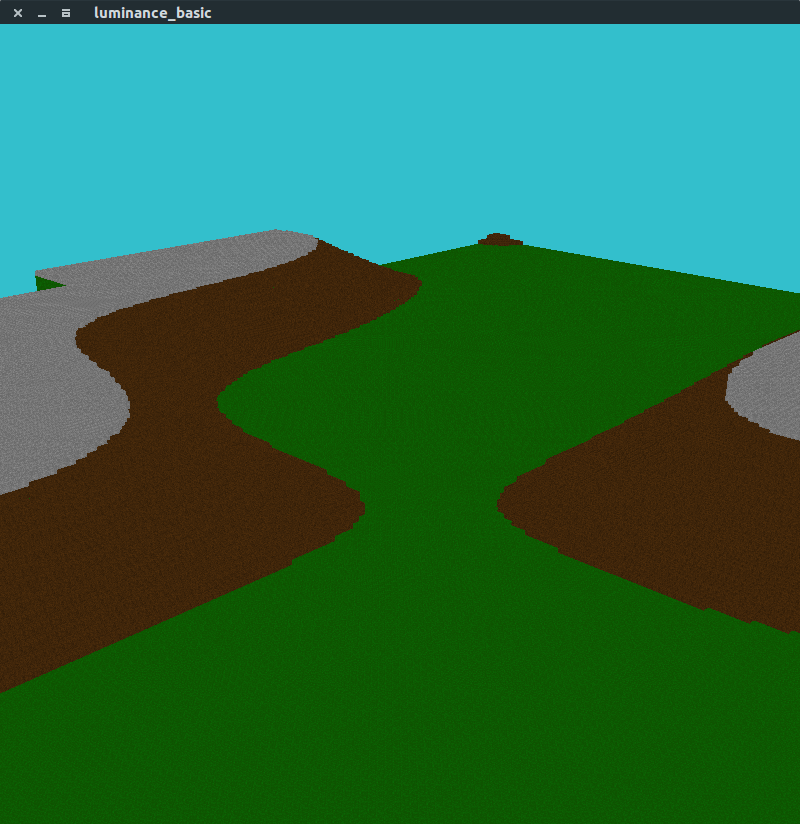
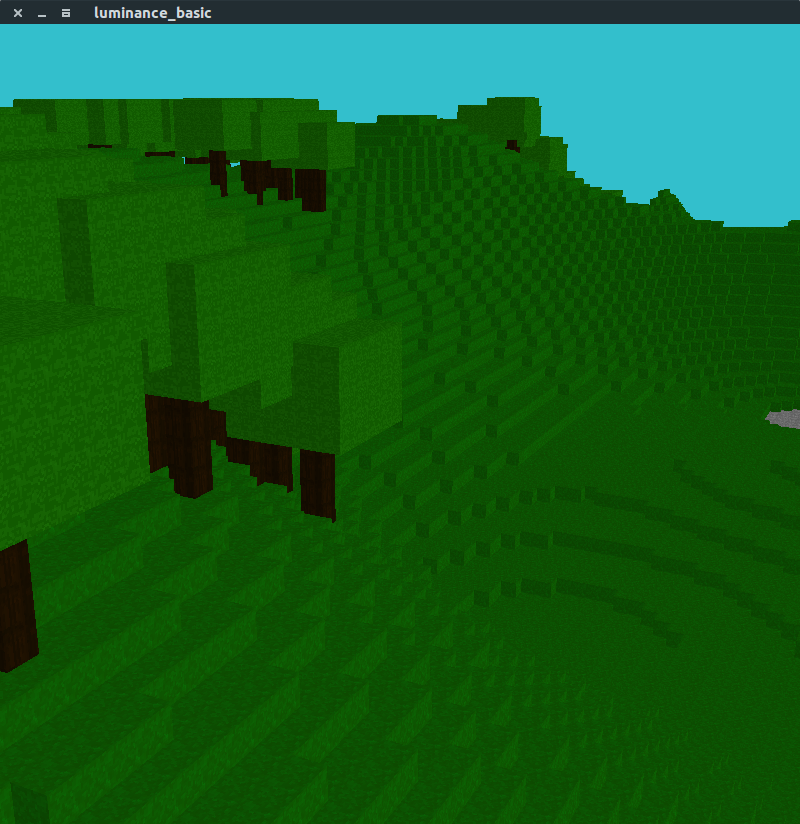
Vast improvements to world appearance * New facenum vertex attribute, allows   per-face lighting implemented in the   shaders. * More variable terrain. * Added trees. * Updated README.md

diff --git a/src/terrain/world_gen.rs b/src/terrain/world_gen.rs
@@ -4,10 +4,15 @@ use noise::{BasicMulti, MultiFractal, NoiseModule};
 use super::SECTOR_SIZE;
 use super::voxel::{Block, BlockList, SectorSpaceCoords};
 
+const SECTOR_SIZE_F: f32 = SECTOR_SIZE as f32;
+
 /// The world generator.
 pub struct WorldGen {
     //perlin: Perlin,
-    noisemod: BasicMulti<f32>,
+    base_terrain: BasicMulti<f32>,
+    compression: BasicMulti<f32>,
+    general_height: BasicMulti<f32>,
+    tree: (BasicMulti<f32>, BasicMulti<f32>),
 }
 
 impl WorldGen {
@@ -15,7 +20,11 @@ impl WorldGen {
     pub fn new() -> WorldGen {
         WorldGen {
             //perlin: Perlin::new(),
-            noisemod: BasicMulti::new().set_persistence(0.1),
+            base_terrain: BasicMulti::new().set_persistence(0.1),
+            compression: BasicMulti::new().set_persistence(0.05),
+            general_height: BasicMulti::new().set_octaves(4).set_frequency(0.5),
+            tree: (BasicMulti::new().set_frequency(0.01),
+                   BasicMulti::new().set_frequency(1.0)),
         }
     }
     
@@ -92,19 +101,65 @@ impl WorldGen {
             
             for x in 0..SECTOR_SIZE {
                 for z in 0..SECTOR_SIZE {
-                    let height = self.noisemod.get(
-                        [(x as f32 + SECTOR_SIZE as f32 * sector.0 as f32) * 0.007,
-                         (z as f32 + SECTOR_SIZE as f32 * sector.2 as f32) * 0.007]);
+                    let (fx, fz) = (x as f32, z as f32);
+                    let (s0, s2) = (sector.0 as f32, sector.2 as f32);
                     
-                    let middle = (SECTOR_SIZE / 2) as f32;
+                    let comp = (self.compression.get(
+                        [(fx + SECTOR_SIZE_F * s0) * 0.005,
+                         (fz + SECTOR_SIZE_F * s2) * 0.005]) + 1.0).min(1.0);
                     
-                    let highest = (middle + height * 40.).max(0.).min(SECTOR_SIZE as f32) as usize;
+                    //println!("{}", comp);
+                    
+                    let general_h = (self.general_height.get(
+                        [(fx + SECTOR_SIZE_F * s0) * 0.0009,
+                         (fz + SECTOR_SIZE_F * s2) * 0.0009]) + 1.5).min(1.0);
+                    
+                    let height = self.base_terrain.get(
+                        [(fx + SECTOR_SIZE_F * s0) * 0.007 * comp,
+                         (fz + SECTOR_SIZE_F * s2) * 0.007 * comp]) * general_h;
+                    
+                    let middle = SECTOR_SIZE_F / 2.;
+                    
+                    let highest = (middle + height * 40.).max(0.).min(SECTOR_SIZE_F) as usize;
                     
                     //println!("highest: {}", highest);
                     
                     for y in 0..highest {
                         list.set(SectorSpaceCoords::new(x as u8, y as u8, z as u8),
                                  Block::Grass);
+                    }
+                    
+                    // Trees
+                    if x >= 3 && x <= SECTOR_SIZE - 3 && z >= 3 && z <= SECTOR_SIZE - 3 && highest < SECTOR_SIZE - 8 {
+                        let tree_chance = self.tree.0.get(
+                            [fx + SECTOR_SIZE_F * s0 * 1.1,
+                             fz + SECTOR_SIZE_F * s2 * 1.1]);
+                        
+                        if tree_chance > 0.2 {
+                            let tree_chance2 = self.tree.1.get(
+                                [fx / 2. + SECTOR_SIZE_F * s0 * 1.1,
+                                 fz / 2. + SECTOR_SIZE_F * s2 * 1.1]);
+                            
+                            //println!("{}", tree_chance2);
+                            
+                            if tree_chance2 > 0.25 {
+                                //list.set(SectorSpaceCoords::new(x as u8, highest.min(SECTOR_SIZE - 1) as u8, z as u8),
+                                //         Block::Loam);
+                                
+                                for h in 0..8 {
+                                    list.set(SectorSpaceCoords::new(x as u8, (h + highest) as u8, z as u8),
+                                             Block::Tree);
+                                    for dx in -2i32..3 {
+                                        for dy in 4i32..8 {
+                                            for dz in -2i32..3 {
+                                                list.set(SectorSpaceCoords::new((x as i32 + dx) as u8, (highest as i32 + dy) as u8, (z as i32  + dz) as u8),
+                                                         Block::Leaves);
+                                            }
+                                        }
+                                    }
+                                }
+                            }
+                        }
                     }
                 }
             }

diff --git a/src/terrain/mesh_gen.rs b/src/terrain/mesh_gen.rs
@@ -217,22 +217,22 @@ fn generate_face(v: &mut Vec<Vertex>, block: (SectorSpaceCoords, &Block),
     
     let original = ((block.0).x() as f32, (block.0).y() as f32, (block.0).z() as f32);
     
-    let mut vtx0 = (POSITIONS[triangles[0]], uv.0);
+    let mut vtx0 = (POSITIONS[triangles[0]], uv.0, face as u32);
     vtx0.0[0] += original.0;
     vtx0.0[1] += original.1;
     vtx0.0[2] += original.2;
     
-    let mut vtx1 = (POSITIONS[triangles[1]], uv.1);
+    let mut vtx1 = (POSITIONS[triangles[1]], uv.1, face as u32);
     vtx1.0[0] += original.0;
     vtx1.0[1] += original.1;
     vtx1.0[2] += original.2;
     
-    let mut vtx2 = (POSITIONS[triangles[2]], uv.2);
+    let mut vtx2 = (POSITIONS[triangles[2]], uv.2, face as u32);
     vtx2.0[0] += original.0;
     vtx2.0[1] += original.1;
     vtx2.0[2] += original.2;
     
-    let mut vtx3 = (POSITIONS[triangles[3]], uv.3);
+    let mut vtx3 = (POSITIONS[triangles[3]], uv.3, face as u32);
     vtx3.0[0] += original.0;
     vtx3.0[1] += original.1;
     vtx3.0[2] += original.2;

diff --git a/src/terrain/mod.rs b/src/terrain/mod.rs
@@ -31,8 +31,13 @@ type Position = [f32; 3];
 // Type of terrain texture coordinate attribute.
 type UV = [f32; 2];
 
+// Type of face attribute. Serves to replace the normal
+// vector, since on a cube the normals always lie along
+// an axis.
+type FaceNum = u32;
+
 // A terrain vertex.
-type Vertex = (Position, UV);
+type Vertex = (Position, UV, FaceNum);
 
 /// The length of one side of a cubic sector.
 pub const SECTOR_SIZE: usize = 32;

diff --git a/src/terrain/voxel.rs b/src/terrain/voxel.rs
@@ -20,6 +20,8 @@ pub enum Block {
     Limestone,
     Loam,
     Grass,
+    Tree,
+    Leaves,
 }
 
 impl Block {

diff --git a/README.md b/README.md
@@ -1,8 +1,9 @@
 # luminance_procedural_world
+
+![Screenshot](https://github.com/twetzel59/luminance_procedural_world/raw/master/screenshot.png "Screenshot")
+
 An experimental block sandbox world generator and viewer. Not a game (yet?)
 
 This project uses https://github.com/phaazon/luminance-rs to abstract most OpenGL state and unsafety, but remains very low level.
 
-Noise based world generation is coming.
-
-![Screenshot](https://github.com/twetzel59/luminance_procedural_world/raw/master/screenshot.png "Screenshot")
+Noise based world generation is performed using the noise crate.
